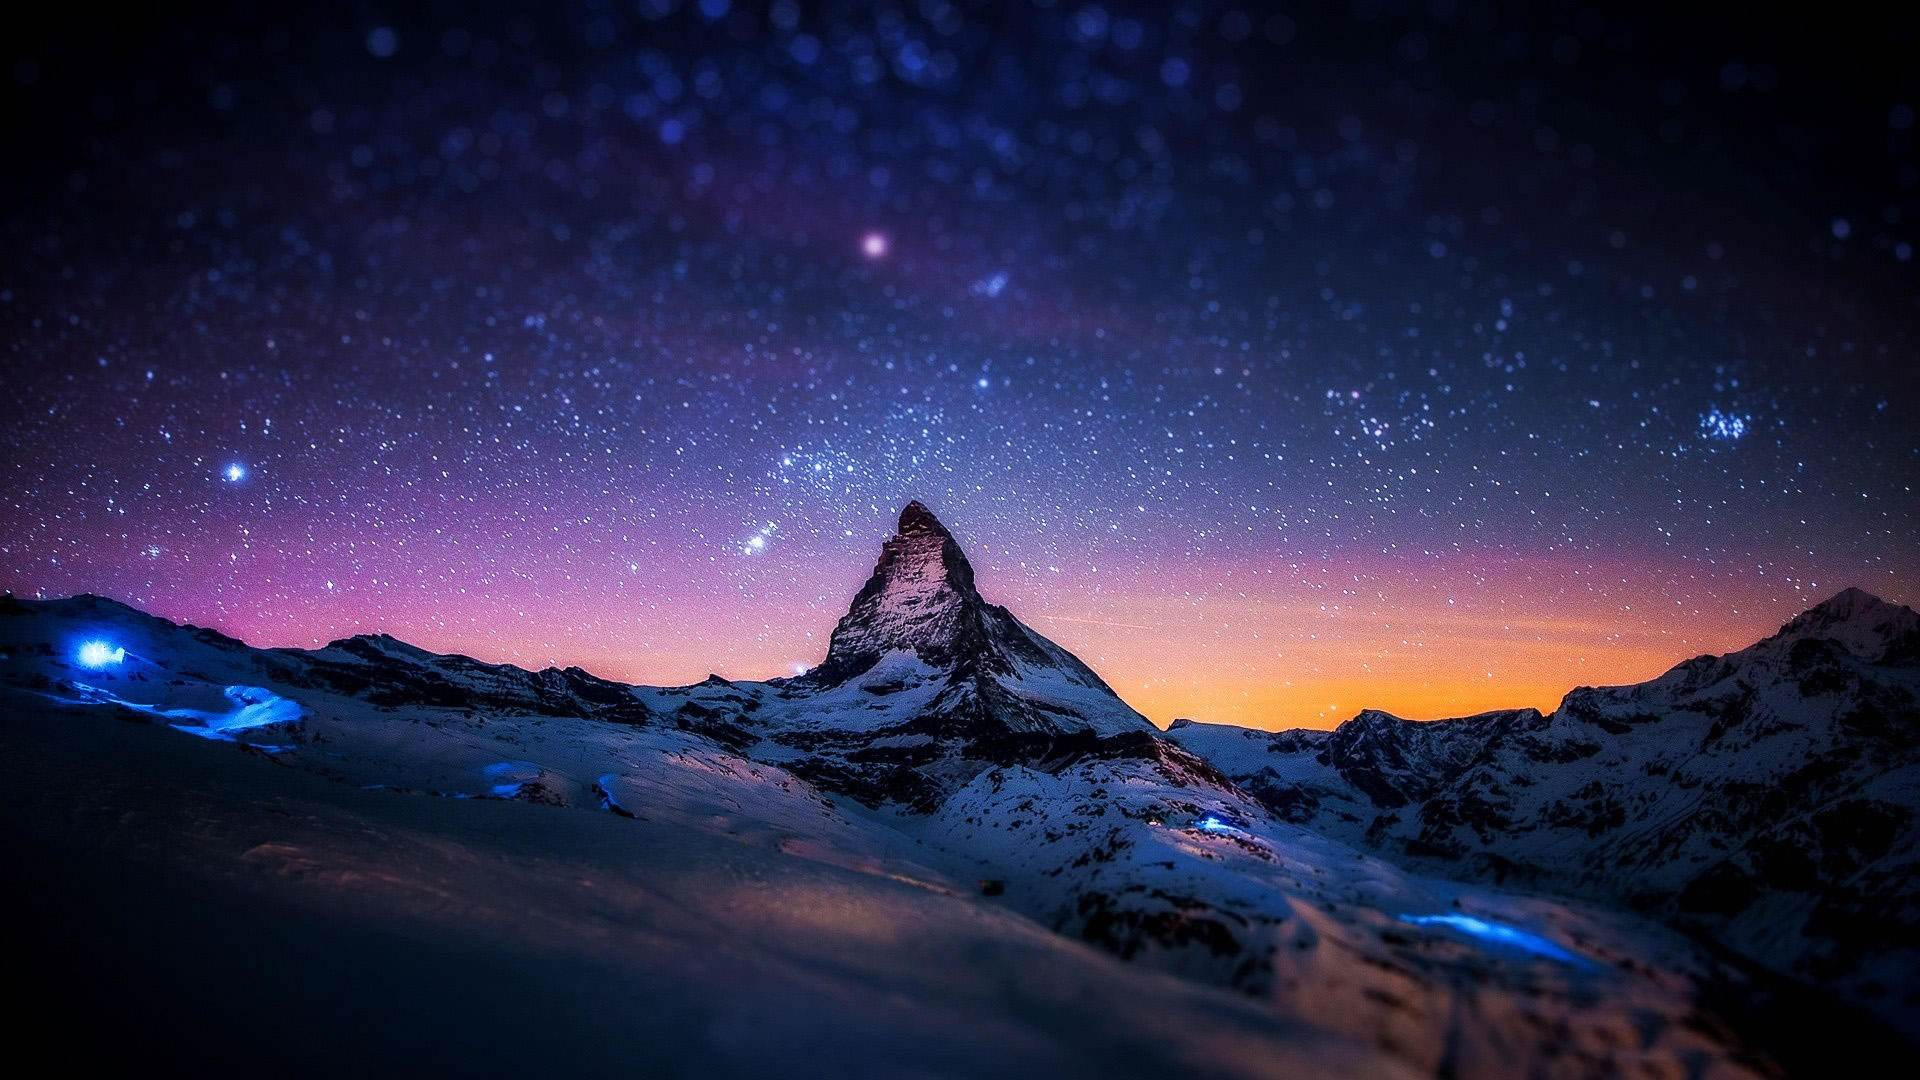
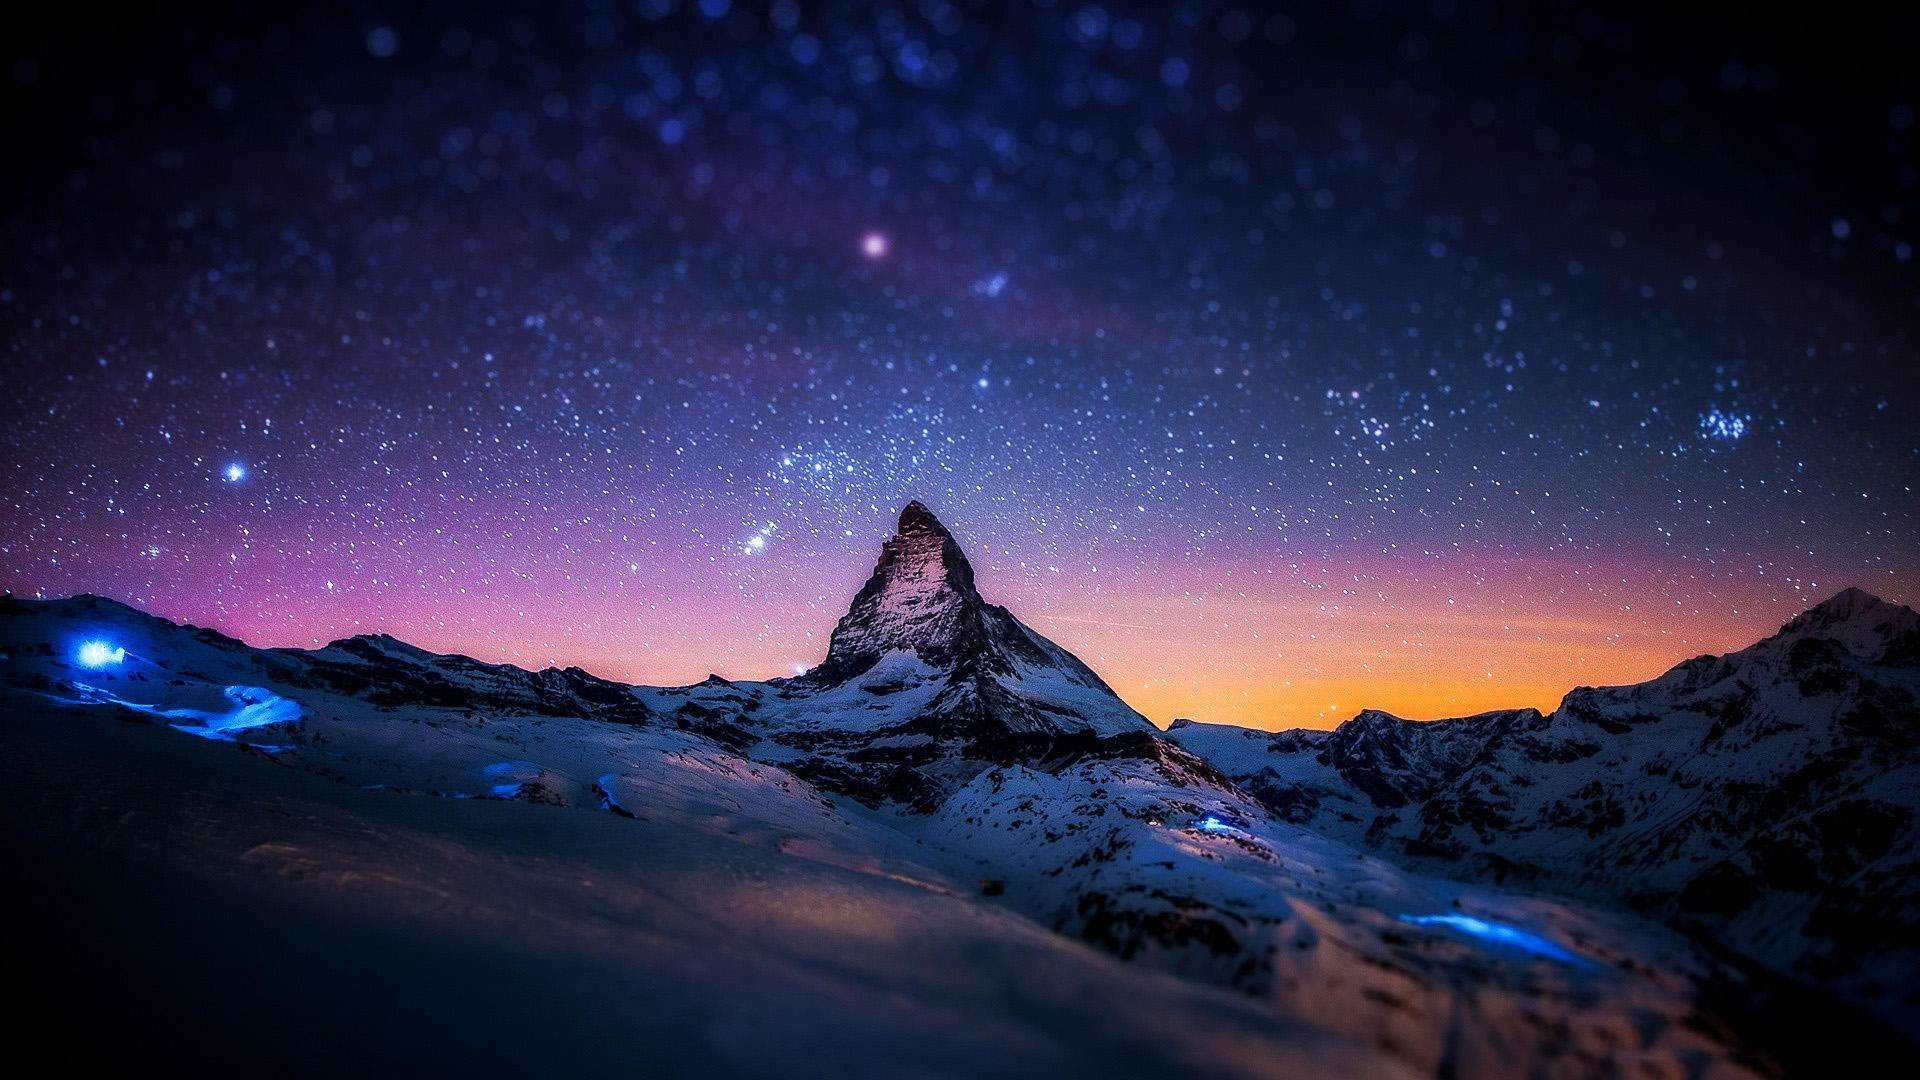
06-22 修复管理员页删除系别后添加专业按钮未能隐藏bug，压缩网站的资源图片

diff --git a/src/main/webapp/resources/js/rootpageMain.js b/src/main/webapp/resources/js/rootpageMain.js
@@ -437,7 +437,7 @@ require(["jquery.min","checkInput","overborwserEvent","rootpageUnexamiePageModul
 				alert("删除成功");
 			},
 			error: function(){
-				alert("删除失败！此专业下存在文件！");
+				alert("删除失败！此专业下存在教师！");
 			}
 		})
 		
@@ -488,6 +488,7 @@ require(["jquery.min","checkInput","overborwserEvent","rootpageUnexamiePageModul
 				manageDep.createManageDepDepsList();
 				//删除系别对话框关闭
 				s("#drop-department-dialog").style.display = 'none';
+				s("#add-speciality").style.display = 'none';
 				alert("删除成功！");
 			},
 			error: function(){
@@ -1023,8 +1024,12 @@ require(["jquery.min","checkInput","overborwserEvent","rootpageUnexamiePageModul
 		var target = event.target;
 
 		if (target.id == "manage-floder") {
-			//侧边栏管理文件夹标签点击事件
-			manageDepFloder.createManageFloderDepList();
+			//如果部门列表没有元素才发送请求刷新数据
+			if (s("#manage-side-item").childNodes.length == 0) {
+				//侧边栏管理文件夹标签点击事件
+				manageDepFloder.createManageFloderDepList();
+			}
+			
 			s("#manage-file-floor").style.display = 'block';
 
 		}else if(target.id == "show-hidden-menu") {
@@ -1083,9 +1088,13 @@ require(["jquery.min","checkInput","overborwserEvent","rootpageUnexamiePageModul
 			s("#manage-file-floor").style.display = 'none';
 
 		}else if(target.id == "manage-department") {
-			//侧边栏管理系别标签点击事件
-			//输出系别的信息
-			manageDep.createManageDepDepsList();
+			if (s("#manage-department-list").childNodes.length == 0) {
+				//如果部门列表为空则发送ajax 请求数据
+				//侧边栏管理系别标签点击事件
+				//输出系别的信息
+				manageDep.createManageDepDepsList();
+			}
+			
 			//再显示
 			s("#manage-department-floor").style.display = 'block';
 

diff --git a/src/main/webapp/resources/js/rootpageManageFloderListModule.js b/src/main/webapp/resources/js/rootpageManageFloderListModule.js
@@ -142,6 +142,8 @@ define(["jquery.min","overborwserEvent"],function($,EventUntil){
 					depListWrap.className = "nodepartment-sidebar-bg";
 				}else{
 					//如果有部门就输出数据
+					//先清空部门列表数据
+					depListWrap.innerHTML = "";
 					depListWrap.appendChild(createElemForDepList(data,selectDepClick));
 				}
 			}
